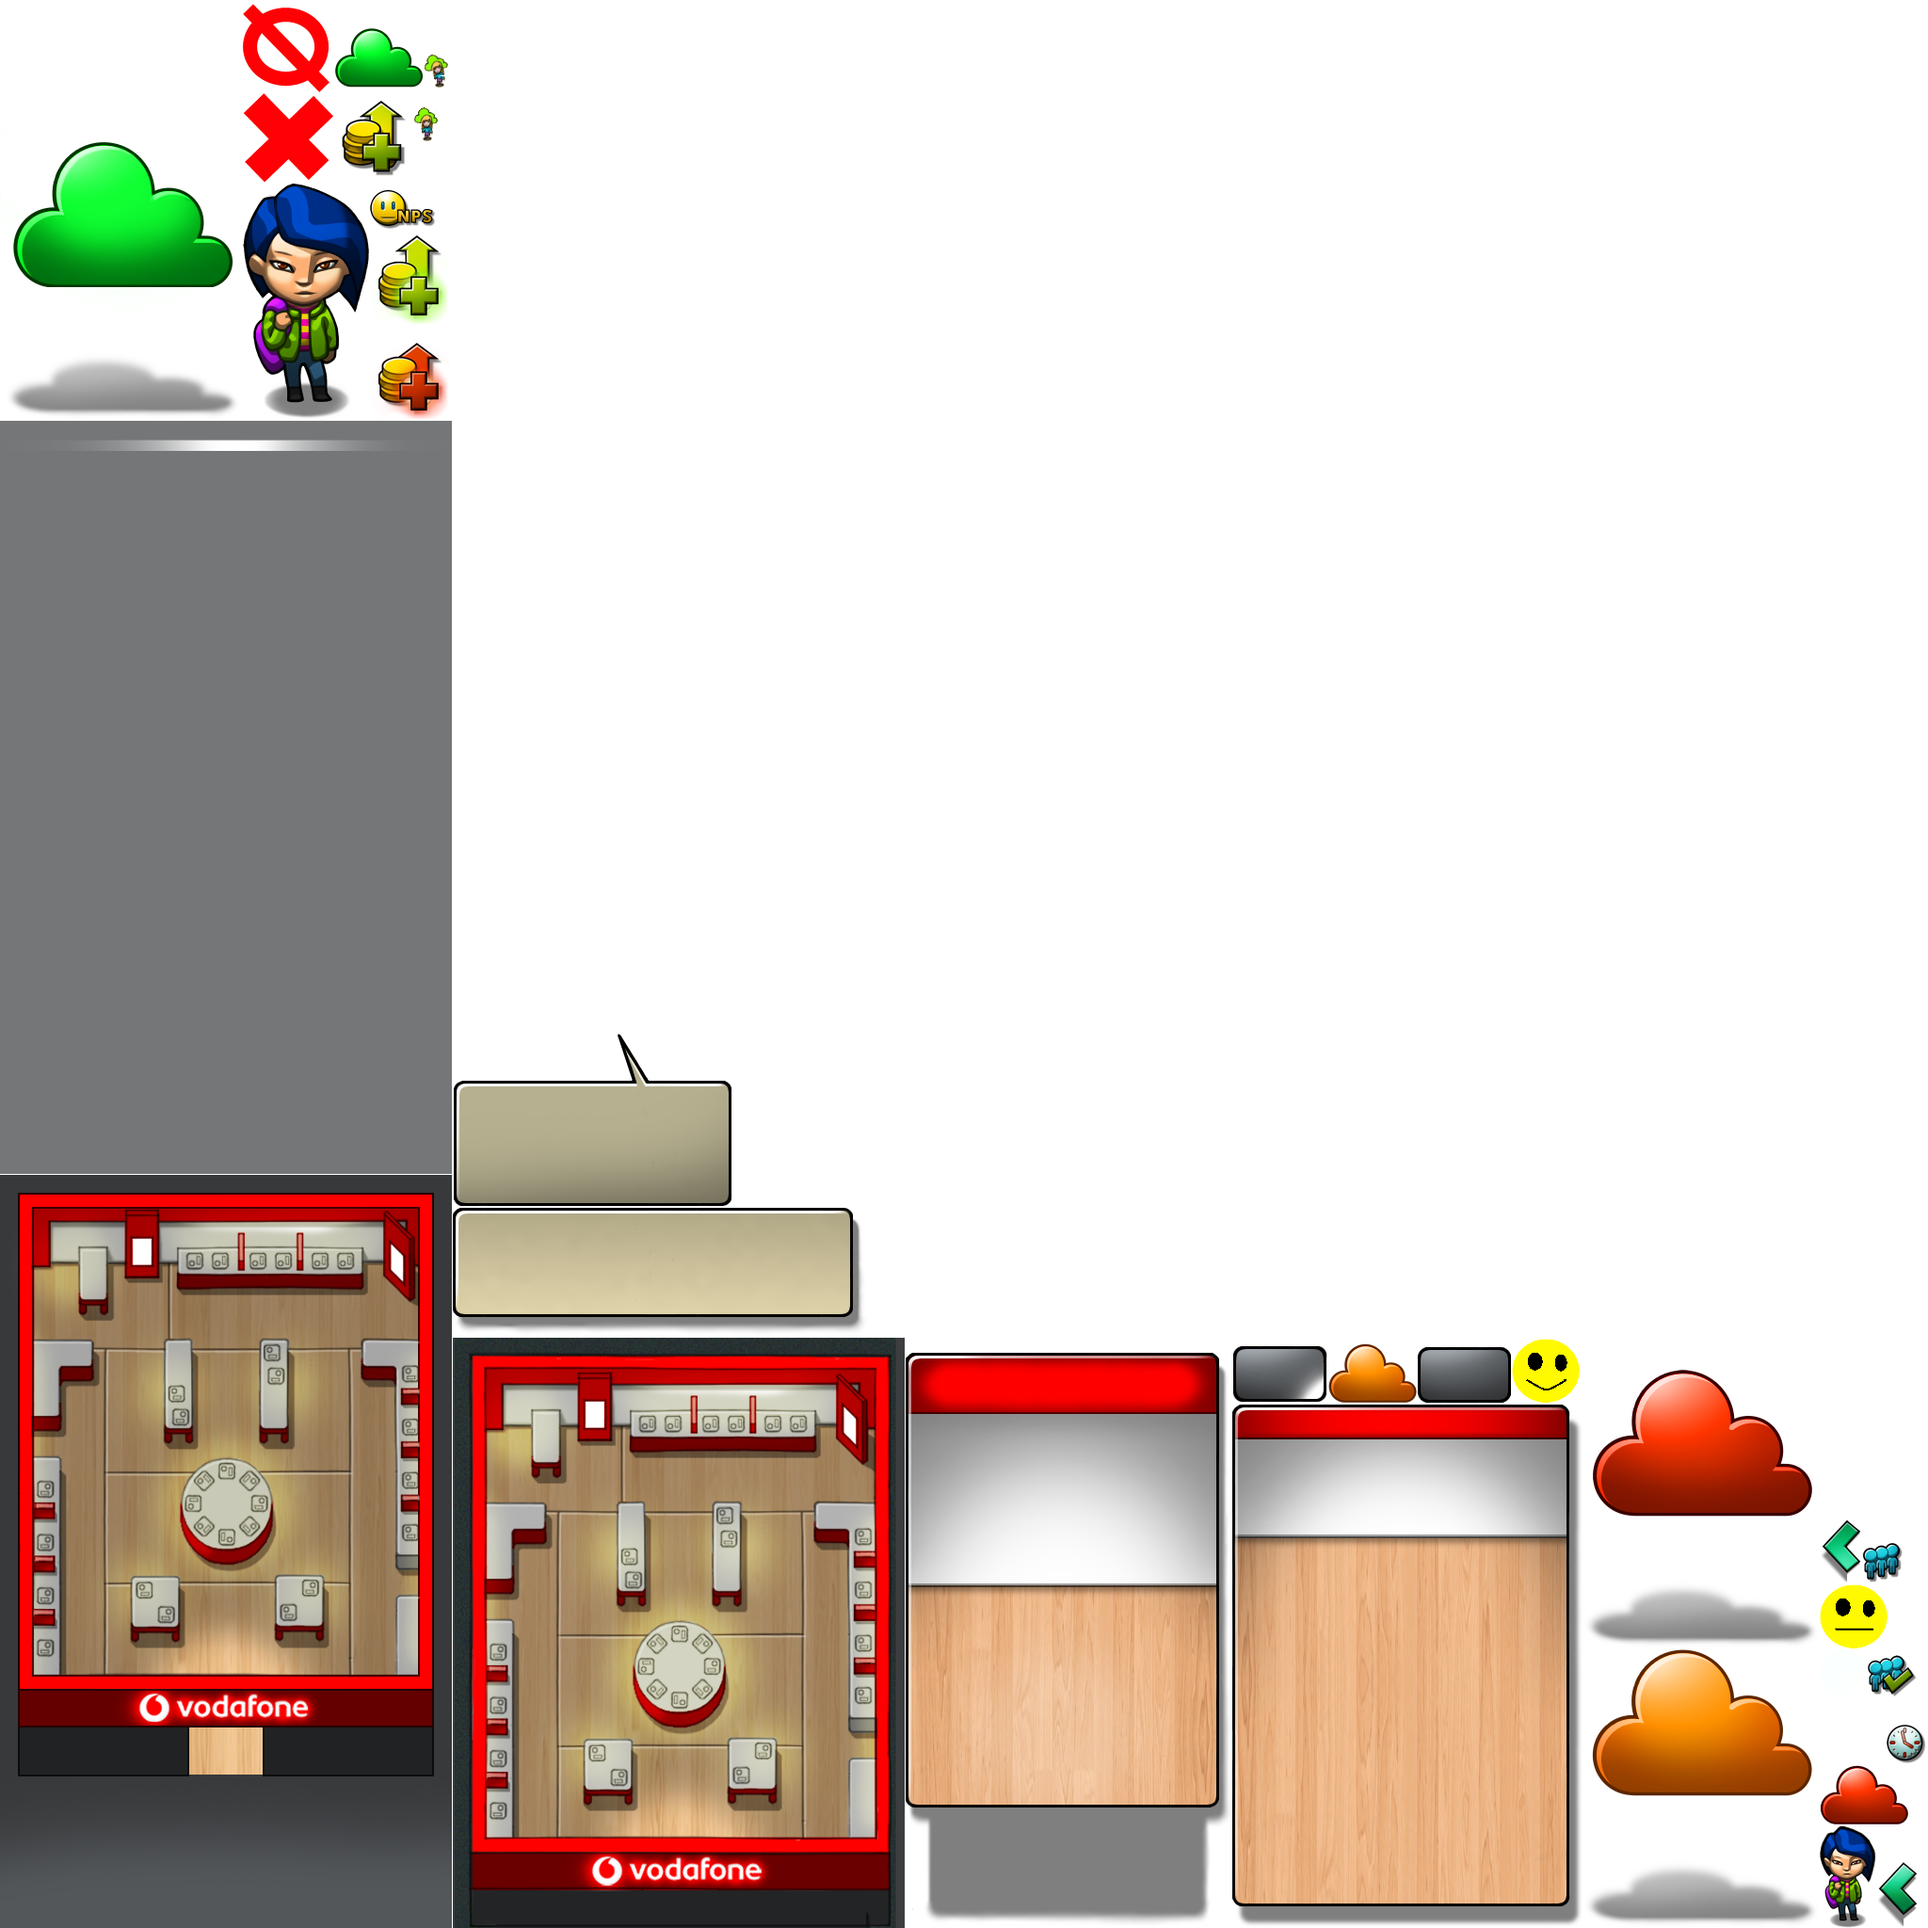
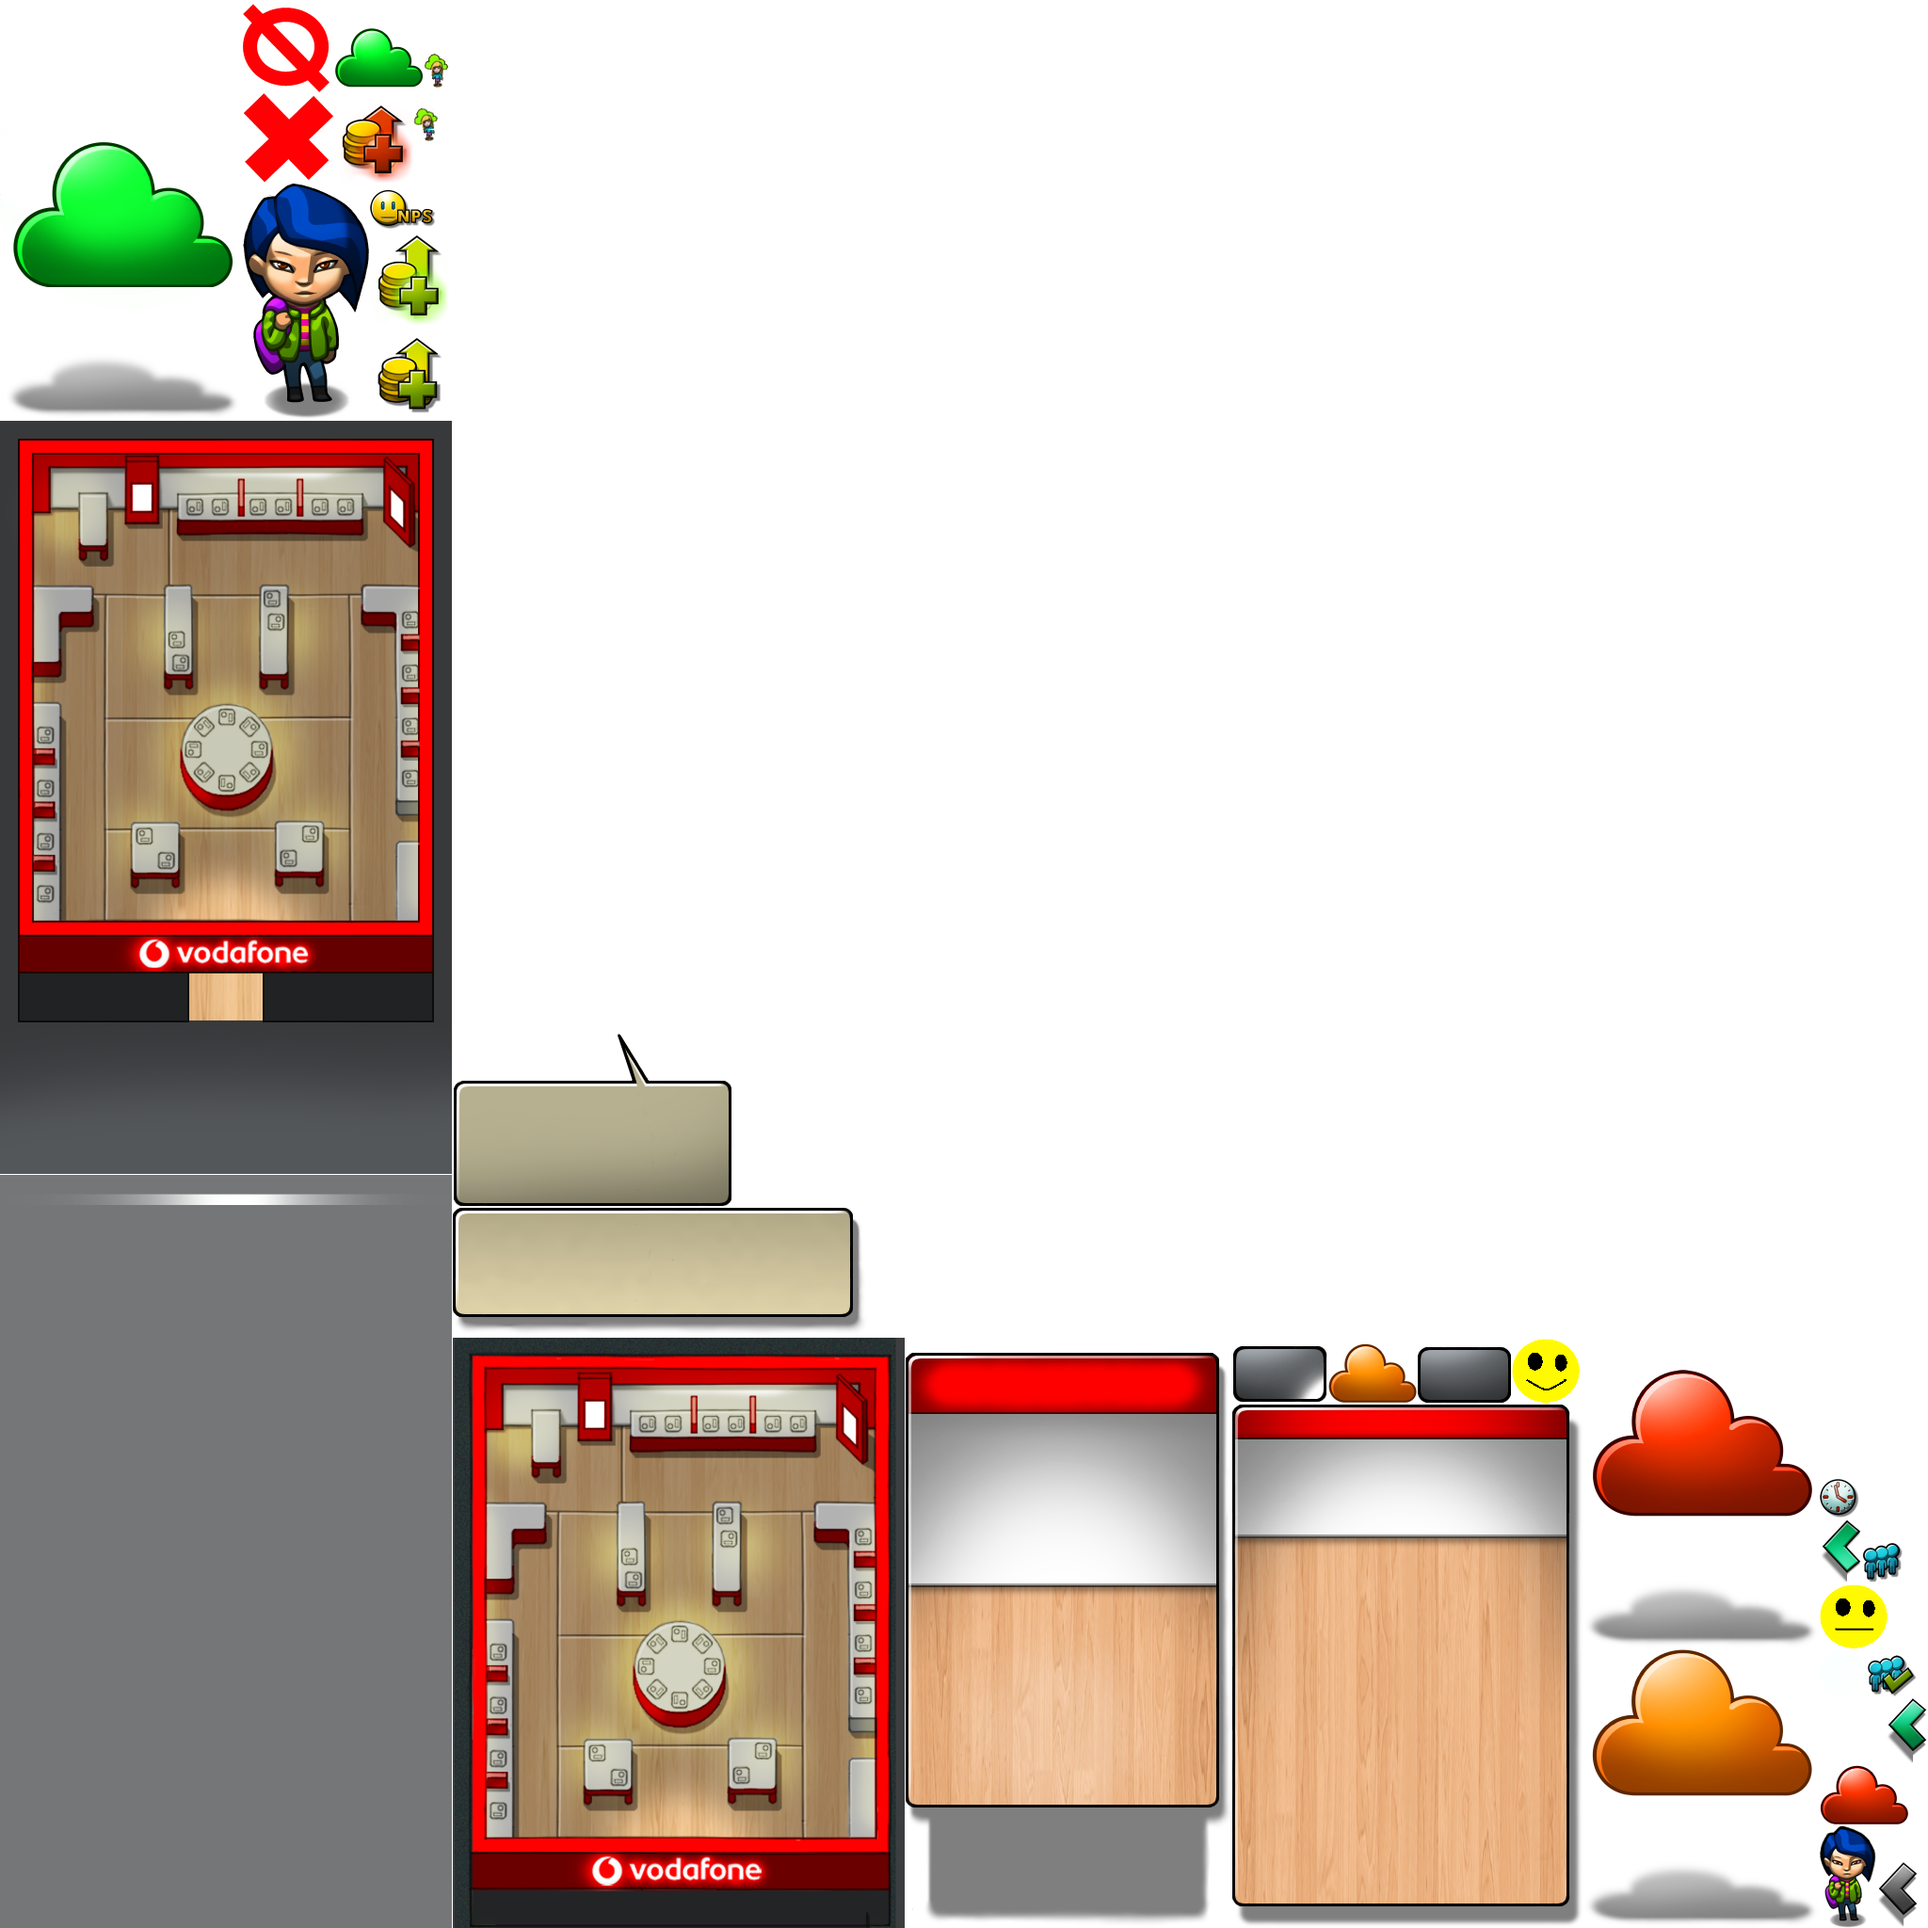
mood bubbles in. Global vars on this in god.cs

diff --git a/Assets/scripts/CustomerView.cs b/Assets/scripts/CustomerView.cs
@@ -6,9 +6,8 @@ public class CustomerView : MonoBehaviour {
 
 	public Customer customerModel;
 	private TweenPosition tweener;
-	private UIDragObject Dragger;
+    public UISprite moodBubble;
 
-    public float dragStartTime;
     GoTween hoverTween;
 
 
@@ -21,6 +20,7 @@ public class CustomerView : MonoBehaviour {
         GetComponent<UISprite>().spriteName = customerModel.avatarName + "_QUEUE";
         GetComponent<CustomSpriteAnimation>().namePrefix = customerModel.avatarName + "_QUEUE" ;
         customerModel.customerView = this;
+        SetMoodSprite();
 	}
 
 
@@ -33,7 +33,7 @@ public class CustomerView : MonoBehaviour {
             feedbackIcon.GetComponent<FeedbackIcon>().icon = FeedbackIcon.Icons.Fail;
             GetComponent<UIDragDropItem>().enabled = false;
             customerModel.Die();
-            Go.to(gameObject.transform, .5f, new GoTweenConfig().scale(0f).onComplete(DestroyCustomerView));
+            //Go.to(gameObject.transform, .5f, new GoTweenConfig().scale(0f).onComplete(DestroyCustomerView));
             return;
         }
         else if (result == Customer.ZoneMatchingResults.SecondBest)
@@ -47,6 +47,26 @@ public class CustomerView : MonoBehaviour {
         GetComponent<UIDragDropItem>().enabled = false;
         zone.AddCustomer(customerModel);
         Go.to(gameObject.transform, .5f, new GoTweenConfig().scale(0f).onComplete(DestroyCustomerView));
+    }
+
+    public void SetMoodSprite()
+    {
+        moodBubble.spriteName = "mood_" + customerModel.GetMoodColor() + "_QUEUE";
+        //float nps = customerModel.nps;
+        //string moodColor = "green";
+        //if (nps > God.amberMoodTreshold)
+        //{
+        //    moodColor = "green";
+        //}
+        //else if (nps > God.redMoodTreshold)
+        //{
+        //    moodColor = "amber";
+        //}
+        //else
+        //{
+        //    moodColor = "red";
+        //}
+        //moodBubble.spriteName = "mood_" + moodColor + "_QUEUE";
     }
 
     public void StartDrag() 
@@ -173,9 +193,14 @@ public class CustomerView : MonoBehaviour {
 
 
 	// Update is called once per frame
-	void FixedUpdate () {
-	
-	}
+    void FixedUpdate()
+    {
+
+    }
+    void Update()
+    {
+
+    }
 
     void LateUpdate()
     {

diff --git a/Assets/scripts/CustomerPanelManager.cs b/Assets/scripts/CustomerPanelManager.cs
@@ -8,10 +8,17 @@ public class CustomerPanelManager : MonoBehaviour {
     public UILabel timerLabel;
     public UILabel totalTimeLabel;
     public UILabel currentZoneLabel;
+    public UISprite moodBubble;
 
     void Start()
     {
         //gameObject.SetActiveRecursively(false);           
+    }
+
+
+    public void SetMoodSprite()
+    {
+        moodBubble.spriteName = "mood_" + currentCustomer.GetMoodColor() + "_PROFILE";
     }
 
     public void Display(Customer customer)
@@ -25,7 +32,7 @@ public class CustomerPanelManager : MonoBehaviour {
         if (God.instance.zonePanelManager.displayingZone)
         {
             //God.instance.zonePanelManager.backButton.enabled = false;
-            God.instance.zonePanelManager.backButton.active = false;
+            God.instance.zonePanelManager.backButton.isEnabled = false;
         }
         God.instance.fader.GetComponent<UIPlayAnimation>().clipName = "FaderAnim";
         God.instance.fader.GetComponent<UIPlayAnimation>().Play(true);
@@ -34,6 +41,7 @@ public class CustomerPanelManager : MonoBehaviour {
         currentCustomer = customer;
         avatarWindow.spriteName = customer.avatarName + "_PROFILE" ;
         scenarioLabel.text = customer.scenario;
+        SetMoodSprite();
         GetComponentInChildren<UpsellButton>().setUpselling(customer.attemptingUpsell);
         if (currentCustomer.currentZone == null)
         {
@@ -60,13 +68,12 @@ public class CustomerPanelManager : MonoBehaviour {
         GetComponent<UIPlayAnimation>().Play(false);
         if (God.instance.zonePanelManager.displayingZone)
         {
-            God.instance.zonePanelManager.backButton.active = true;
+            God.instance.zonePanelManager.backButton.isEnabled = true;
         }
         else
         {
             God.instance.fader.GetComponent<UIPlayAnimation>().Play(false);
         }
-
         GetComponent<UIPlayAnimation>().disableWhenFinished = AnimationOrTween.DisableCondition.DisableAfterReverse;
     }
 

diff --git a/Assets/scripts/Customer.cs b/Assets/scripts/Customer.cs
@@ -132,12 +132,11 @@ using System.Collections;
                     //This is so if the customer dies of running out of time when dragged, all looks good.
                     customerView.EndDrag();
                 }
-                else
+                else// Customer is still in the queue
                 {
-
+                    GameObject.Destroy(customerView.gameObject);
                     God.instance.customersQueue.GetComponent<UIGrid>().repositionNow = true;
                 }
-                GameObject.Destroy(customerView.gameObject);
 
                 
             }
@@ -148,6 +147,26 @@ using System.Collections;
         God.instance.CustomerLost(this);
     }
 
+    public string GetMoodColor()
+    {
+
+       
+        string moodColor = "green";
+        if (nps > God.amberMoodTreshold)
+        {
+            moodColor = "green";
+        }
+        else if (nps > God.redMoodTreshold)
+        {
+            moodColor = "amber";
+        }
+        else
+        {
+            moodColor = "red";
+        }
+        return moodColor;
+
+    }
    
 
 	// Use this for initialization

diff --git a/Assets/scripts/God.cs b/Assets/scripts/God.cs
@@ -28,6 +28,12 @@ public class God : MonoBehaviour {
     public List<Customer> possibleCustomersPool = new List<Customer>();
     public GameObject fader;
     public float totalTimeForTheDay = 600f;
+
+    [DoNotSerialize] public static float amberMoodTreshold = 7;
+    [DoNotSerialize] public static float redMoodTreshold = 5;
+
+    
+
     //public List<string, UILabel> scoreLabels;
 
 
